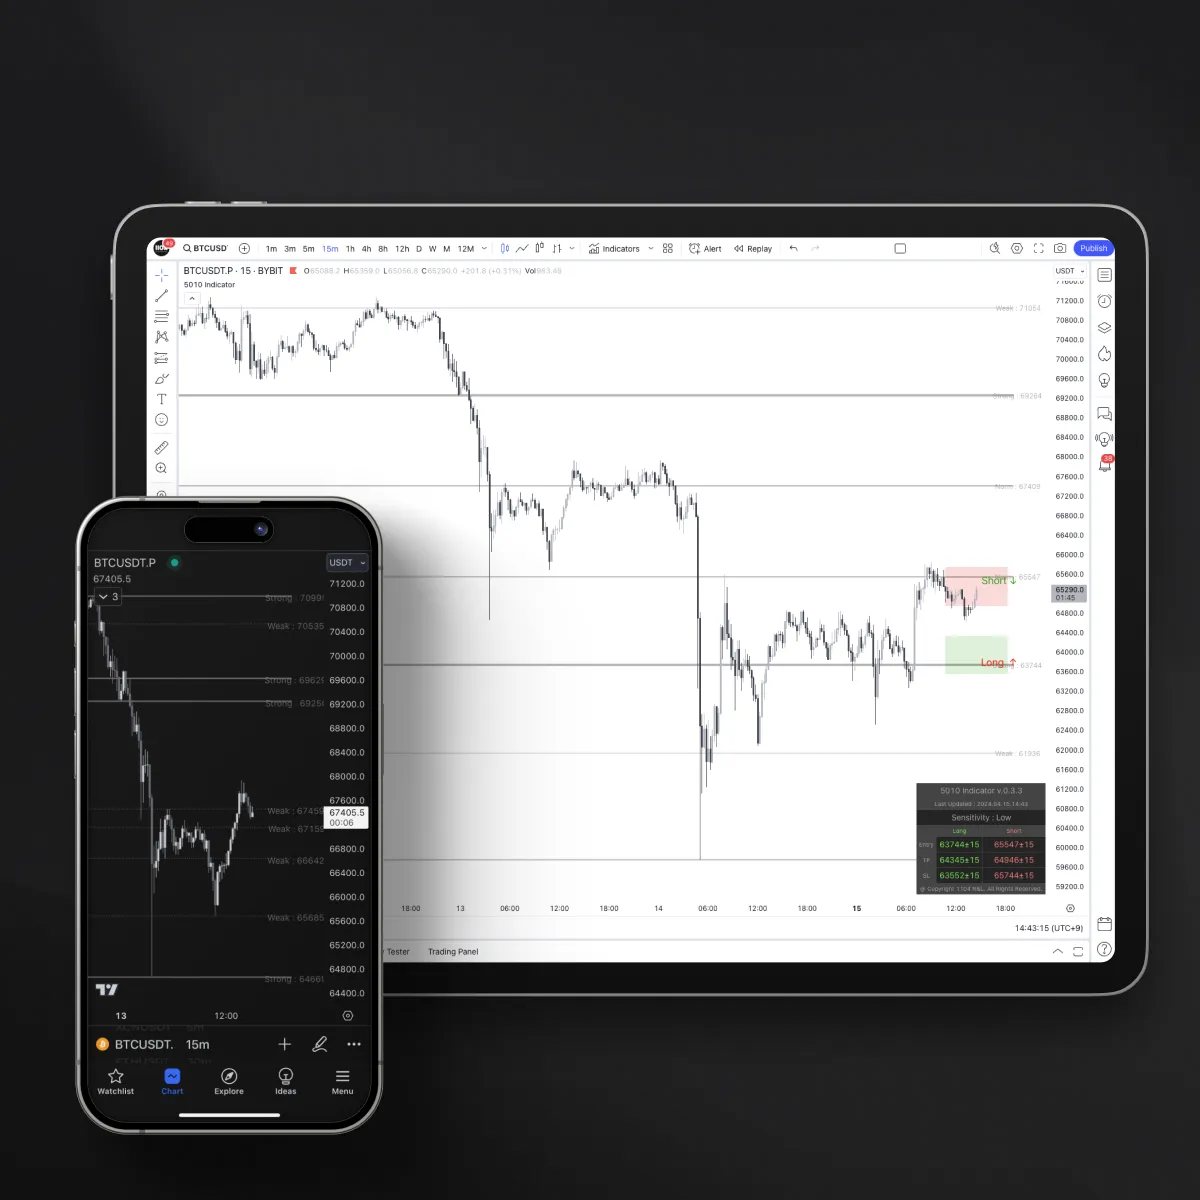
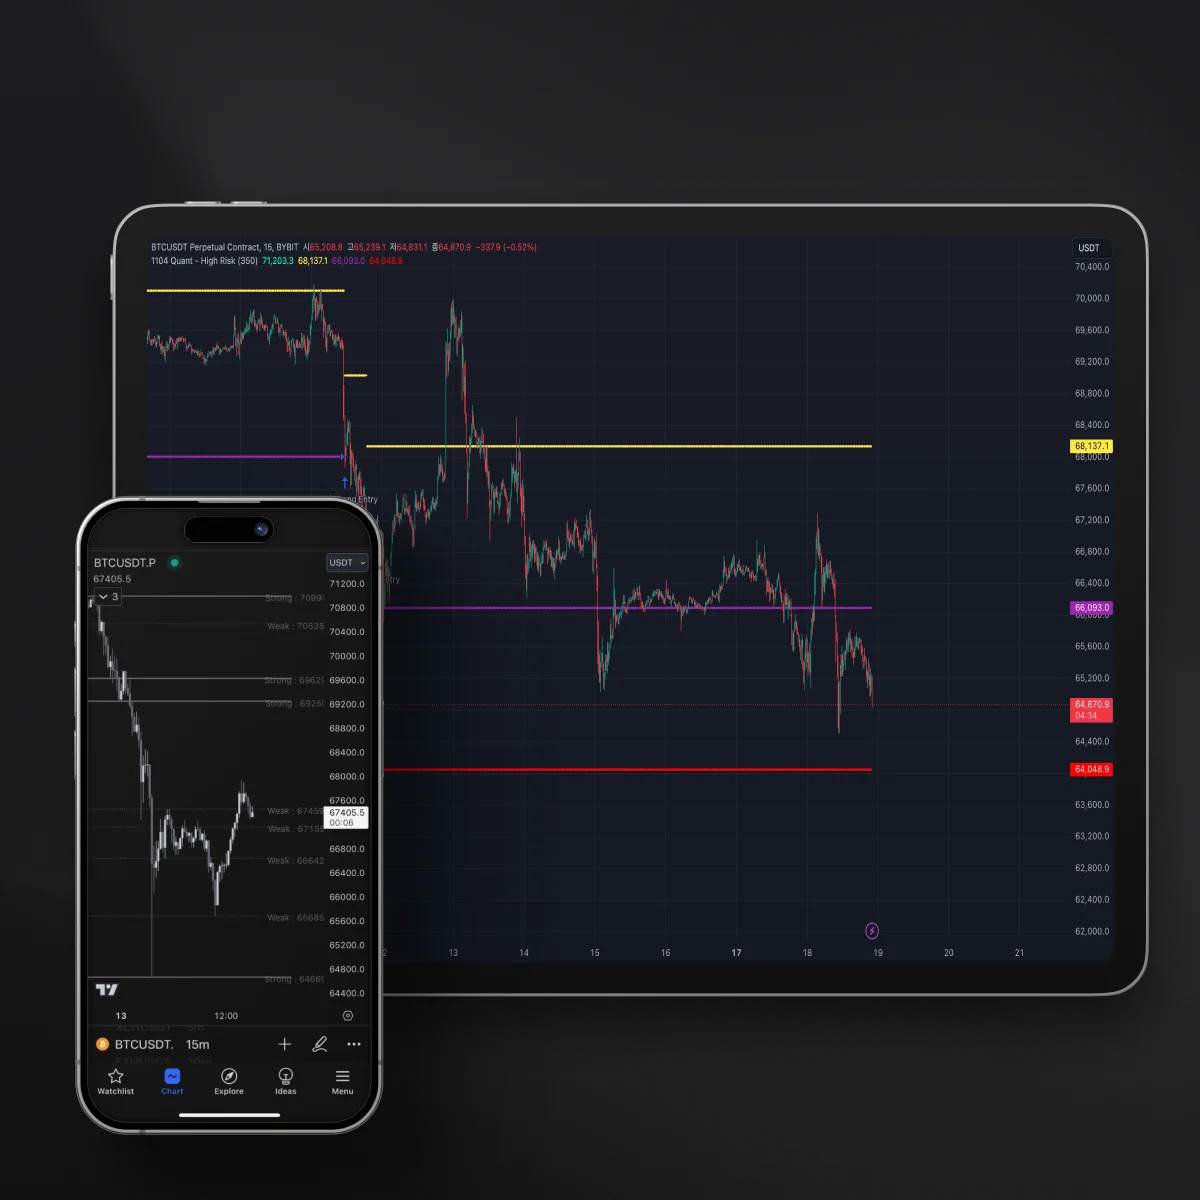
Serive component modified

diff --git a/src/store/contents/homeContentsStore.ts b/src/store/contents/homeContentsStore.ts
@@ -59,6 +59,7 @@ export interface HomeContentsState {
 	service: {
 		items: {
 			imgUrl: string
+			title: string
 			caption: string
 			heading: string
 			body: string
@@ -127,20 +128,23 @@ export const useHomeContentsStore = create<HomeContentsState>((set) => ({
 		items: [
 			{
 				imgUrl: serviceImage1,
+				title: '5010',
 				caption: '5010 매매 전략',
-				heading: '절대 지지 않는 방법이 계속해서 이기는 방법이다.',
+				heading: '절대 지지 않는 방법이 계속해서 이기는 방법',
 				body: '쉽고 명확하고 과학적인 방법으로. 5010 매매 전략은 투자 시장의 모든 것을 총망라한, 단순 기법이 아닌 전략으로서의 투자 교육입니다.',
 				buttonText: '5010 매매 전략 자세히 보기 →',
 			},
 			{
 				imgUrl: serviceImage2,
-				caption: '5010 인디케이터',
-				heading: '가격 형성 원리에 입각한 매매 보조 지표',
-				body: '5010 매매 전략을 보조하기 위해 개발되었습니다. 가장 단순하고 명확하게, 기계적인 매매가 가능하도록, 그래서 누구나 사용할 수 있도록 만들었습니다.',
-				buttonText: '5010 인디케이터 자세히 보기 →',
+				title: 'quant',
+				caption: '5010 퀀트 솔루션',
+				heading: '기술과 수학의 힘으로 전통적 투자의 한계를 넘어',
+				body: '데이터 과학과 인공지능 기술을 활용하여 금융시장의 복잡한 패턴을 분석하고, 최적의 매매 전략을 수립하고 실행하는 자동화 솔루션입니다.',
+				buttonText: '5010 퀀트 솔루션 자세히 보기 →',
 			},
 			{
 				imgUrl: serviceImage3,
+				title: 'community',
 				caption: '1104 R&I 공식 커뮤니티',
 				heading: '투자는 단거리 경주가 아닌 끝없는 마라톤',
 				body: '여러분이 초심을 잃지 않고 나아갈 수 있도록, 잘못된 투자 방식 교정과 동기부여 지속 제공을 통해 페이스 페이커가 되어 여러분과 함께 합니다.',

diff --git a/src/components/feature/service/service.component.tsx b/src/components/feature/service/service.component.tsx
@@ -1,5 +1,9 @@
+import { MouseEvent } from 'react'
+import { ROUTES } from '../../../routes/routes'
+
 import { useDeviceTypeStore } from '../../../store/deviceTypeStore'
 import { useHomeContentsStore } from '../../../store/contents/homeContentsStore'
+import useNavigateWithScroll from '../../../hooks/useNavigateWithScroll'
 
 import Button from '../../global/button/button.component'
 
@@ -8,6 +12,21 @@ import { ServiceContainer } from './service.styles'
 export default function Service() {
 	const deviceType = useDeviceTypeStore((state) => state.deviceType)
 	const { items } = useHomeContentsStore((state) => state.service)
+	const navigate = useNavigateWithScroll()
+
+	const handleSeeDetails = (e: MouseEvent<HTMLButtonElement>, id: string) => {
+		if (id === 'community') {
+			window.open(
+				'https://t.me/+wihj13Yb06U3YWM1',
+				'_blank',
+				'noopener,noreferrer',
+			)
+		} else {
+			navigate(`${ROUTES.SERVICE_ITEM(id)}`)
+		}
+	}
+
+	// const handleJoinCommunity
 
 	return (
 		<ServiceContainer $deviceType={deviceType}>
@@ -33,6 +52,7 @@ export default function Service() {
 							stroke="outlined"
 							shape="rounding"
 							size="sm"
+							handleClick={(e) => handleSeeDetails(e, item.title)}
 						/>
 					</div>
 				</div>

diff --git a/src/App.tsx b/src/App.tsx
@@ -3,8 +3,8 @@ import { Helmet, HelmetProvider } from 'react-helmet-async'
 import { BrowserRouter as Router } from 'react-router-dom'
 import { ThemeProvider } from 'styled-components'
 
-import { useDeviceTypeStore } from './store/deviceTypeStore'
 import useDeviceType from './hooks/useDeviceType'
+import { useDeviceTypeStore } from './store/deviceTypeStore'
 import { useAuthDataStore } from './store/authDataStore'
 import { useLoadingStore } from './store/loadingStore'
 import { getLoginUserData, logout } from './services/auth/auth-service'

diff --git a/src/store/contents/ourServiceContentsStore.ts b/src/store/contents/ourServiceContentsStore.ts
@@ -2,7 +2,7 @@ import { create } from 'zustand'
 
 import backgroundImage from '../../assets/img/home-about-image.webp'
 import educationImage from '../../assets/img/service-image-1.webp'
-import quantImage from '../../assets/img/service-quant-image.webp'
+import quantImage from '../../assets/img/service-image-2.webp'
 import bannerBackgroundImage from '../../assets/img/banner-background-img.webp'
 
 type Hero = {
